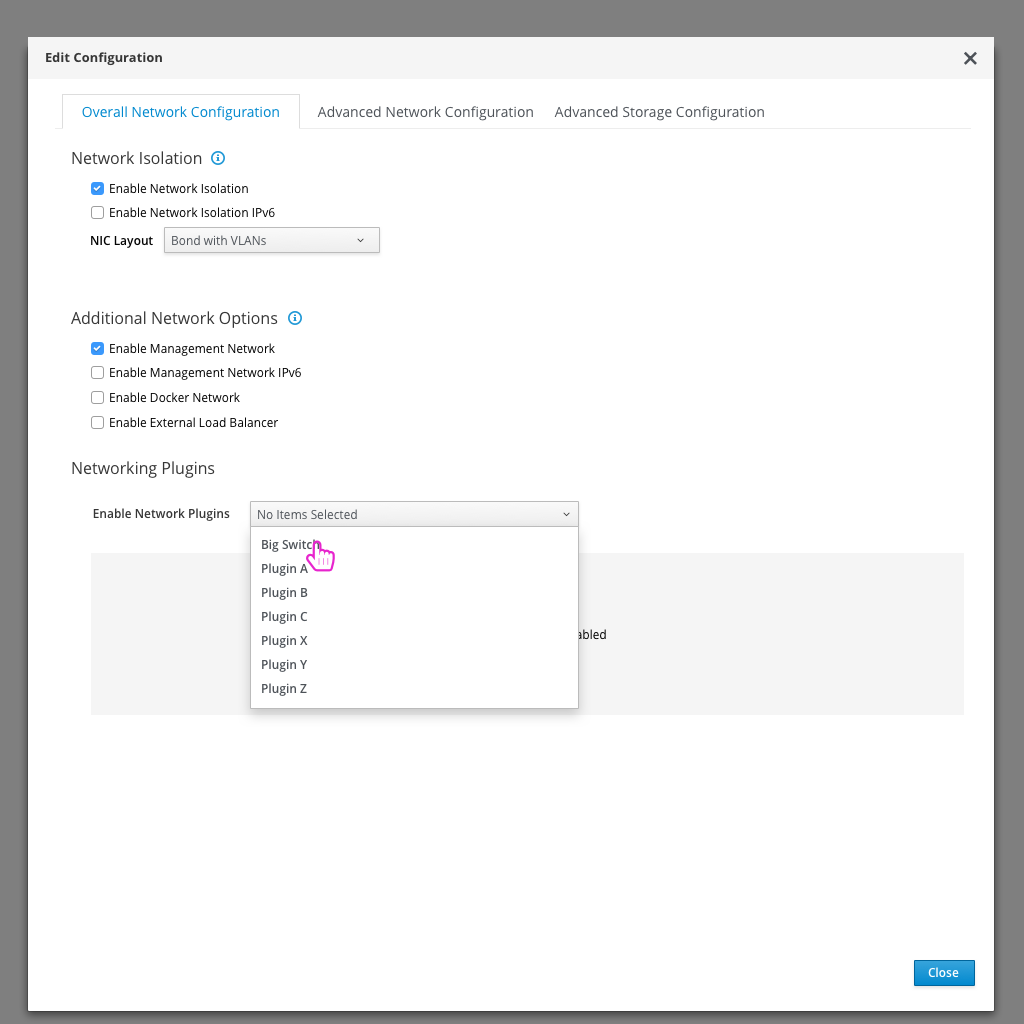
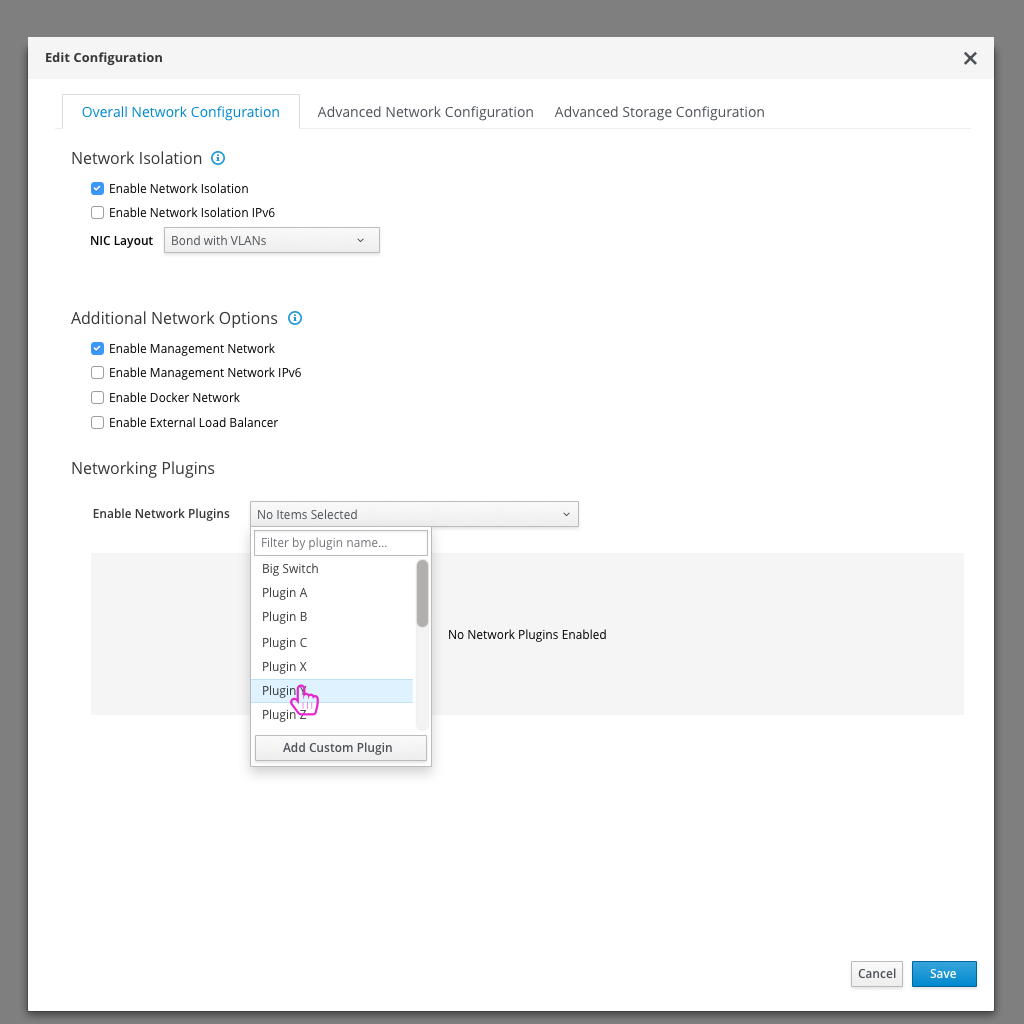
Adding "Add Custom Plugin" design
This allows the user to upload a YAML configuration file and give a custom plugin a name to add to their OpenStack Deployment configuration.

Changed region(s): [[0.2188, 0.5312, 0.5625, 0.7812], [0.25, 0.5, 0.3438, 0.5625], [0.8438, 0.9375, 0.9688, 0.9688]]

diff --git a/tripleo-ui/3-tripleo-ui-edge-cases/25.networkplugins.md b/tripleo-ui/3-tripleo-ui-edge-cases/25.networkplugins.md
@@ -11,3 +11,9 @@
 
 ![configurenetwork plugins3](img/Networking-Network-Edit_Configuration_Modal_Overall3.png)
 - Any accordion menu would hold the plugins that have been selected along with any parameters that the user can edit for those plugins.
+
+![configurenetwork plugins3](img/Networking-Network-Edit_Configuration_Modal_Add_Custom.png)
+- The user has the option to add a custom plugin. This allows them to upload a YAML configuration file and configure the plugin themselves. This also applies to storage plugins.
+
+![configurenetwork plugins3](img/Networking-Network-Edit_Configuration_Modal_Add_Custom_Upload.png)
+- After giving the plugin a Name and uploading the YAML Configuration file, the user can Add the Plugin and view it in the Plugin list.
